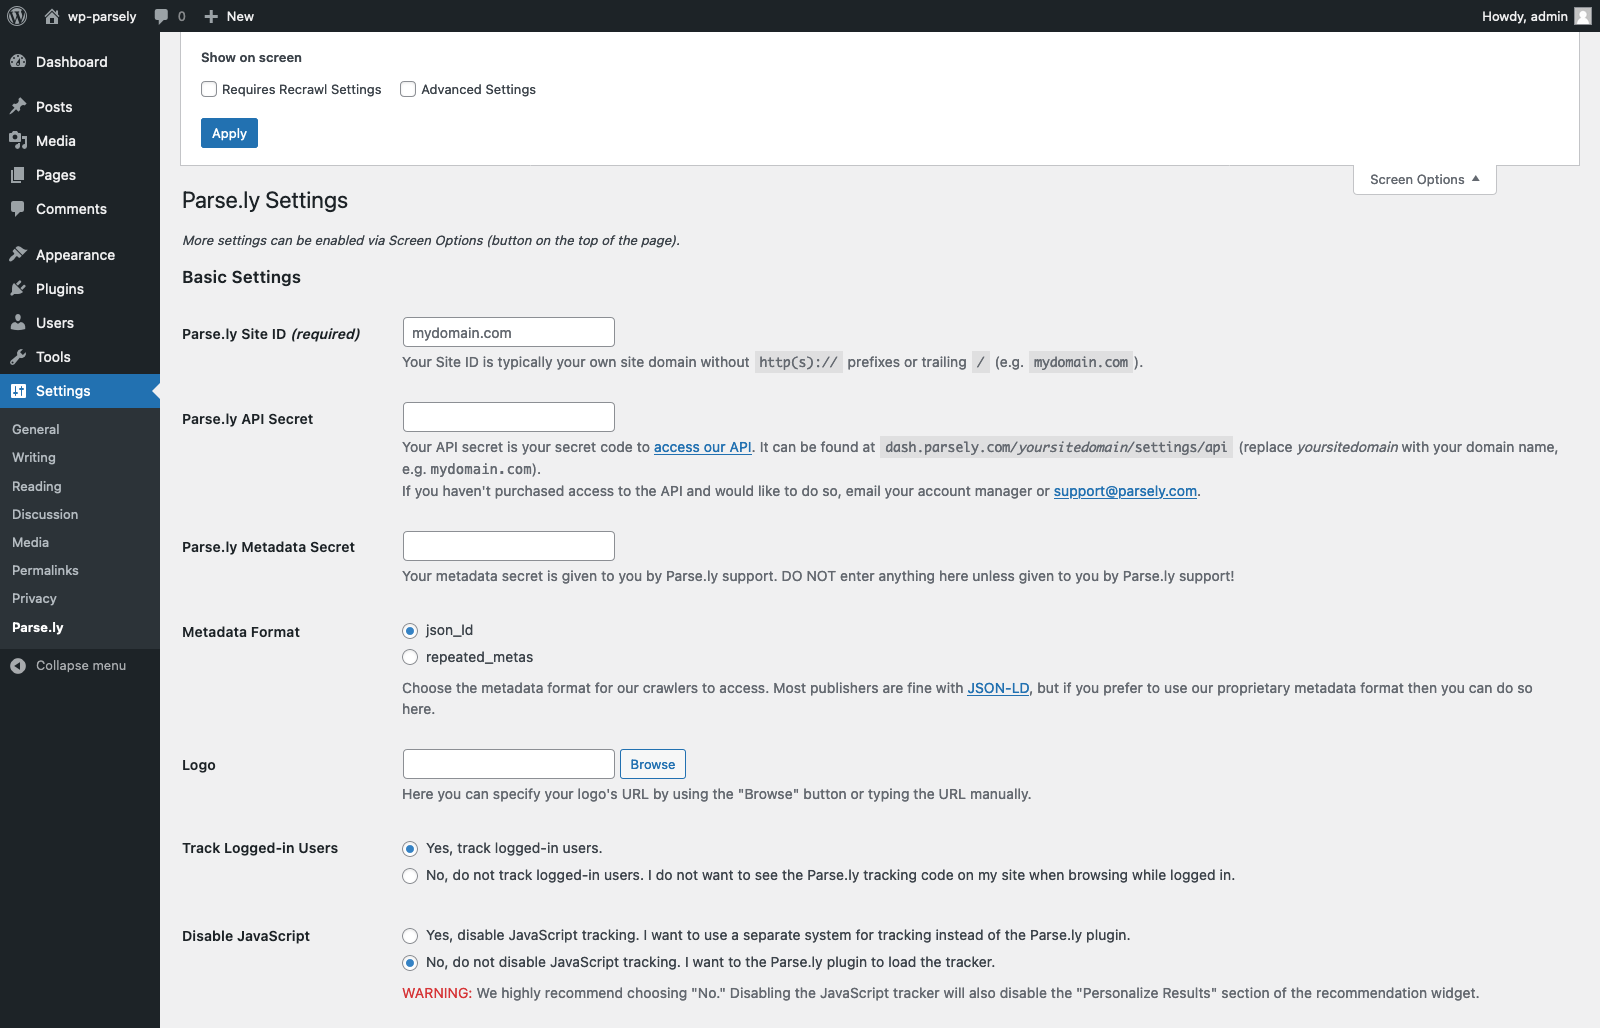
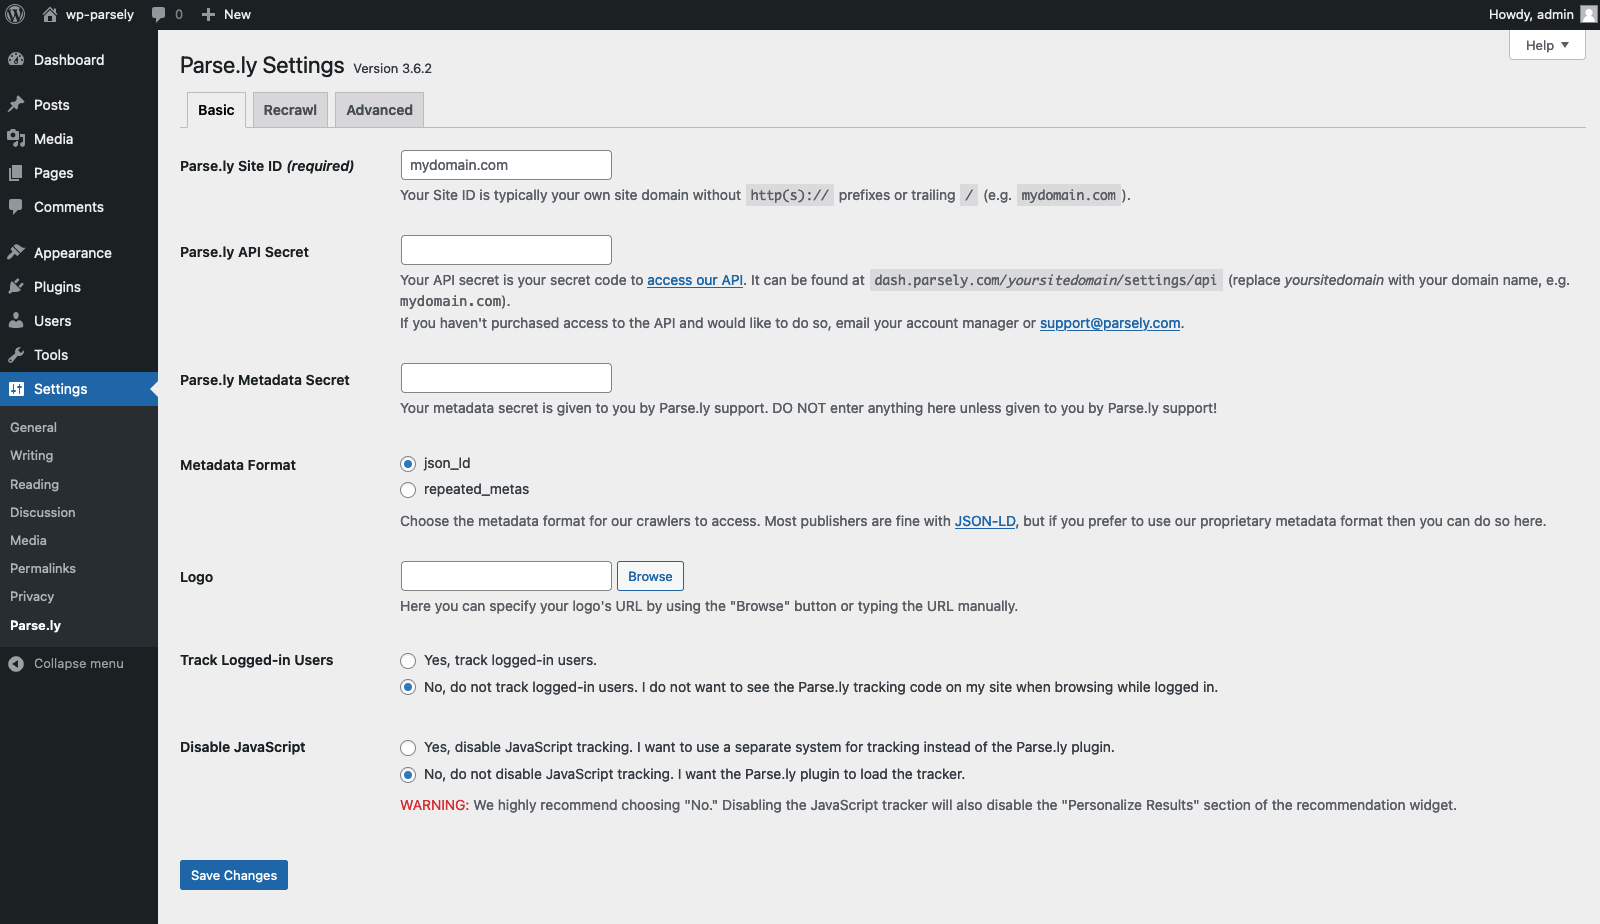
💫 UPDATE: readme and screenshots

diff --git a/src/UI/class-settings-page.php b/src/UI/class-settings-page.php
@@ -524,7 +524,7 @@ final class Settings_Page {
 
 		add_settings_section(
 			$section_key,
-			__( 'Advanced Settings', 'wp-parsely' ),
+			__( 'Advanced', 'wp-parsely' ),
 			'__return_null',
 			Parsely::MENU_SLUG
 		);
@@ -593,12 +593,15 @@ final class Settings_Page {
 		global $wp_settings_sections;
 
 		foreach ( $wp_settings_sections[ Parsely::MENU_SLUG ] as $section ) {
-			if ( $section['callback'] ) {
-				call_user_func( $section['callback'], $section );
-			}
 			?>
 
 			<div class="tab-content <?php echo esc_attr( $section['id'] ); ?>">
+				<?php
+				if ( $section['callback'] ) {
+					call_user_func( $section['callback'], $section );
+				}
+				?>
+
 				<table class="form-table" role="presentation">
 					<?php do_settings_fields( Parsely::MENU_SLUG, $section['id'] ); ?>
 				</table>

diff --git a/README.md b/README.md
@@ -112,7 +112,7 @@ Please visit the [changelog](https://github.com/parsely/wp-parsely/blob/trunk/CH
 1. Parse.ly plugin basic settings for easy setup. For the plugin to start working, only the Site ID is needed.  
    ![Parse.ly Plugin - Basic Settings](.wordpress-org/screenshot-1.png)
 2. Parse.ly plugin settings that require a website recrawl whenever they are updated.  
-   ![Parse.ly Plugin - Requires Recrawl Settings](.wordpress-org/screenshot-2.png)
+   ![Parse.ly Plugin - Recrawl Settings](.wordpress-org/screenshot-2.png)
 3. Parse.ly plugin advanced settings, to be used only if instructed by Parse.ly staff.  
    ![Parse.ly Plugin - Advanced Settings](.wordpress-org/screenshot-3.png)
 4. The Parse.ly Dashboard Widget, showing the website's top posts in the last 7 days.
